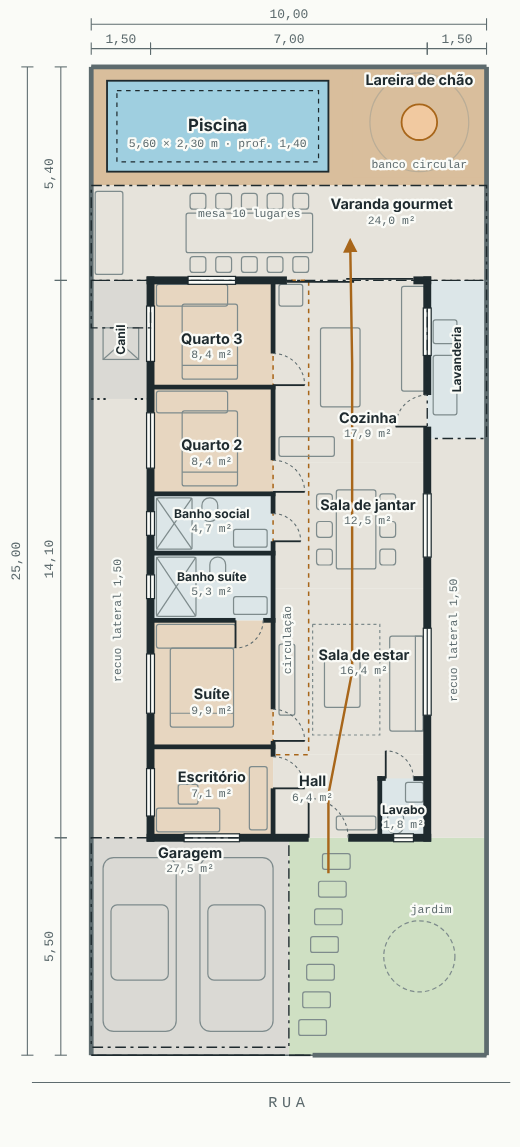
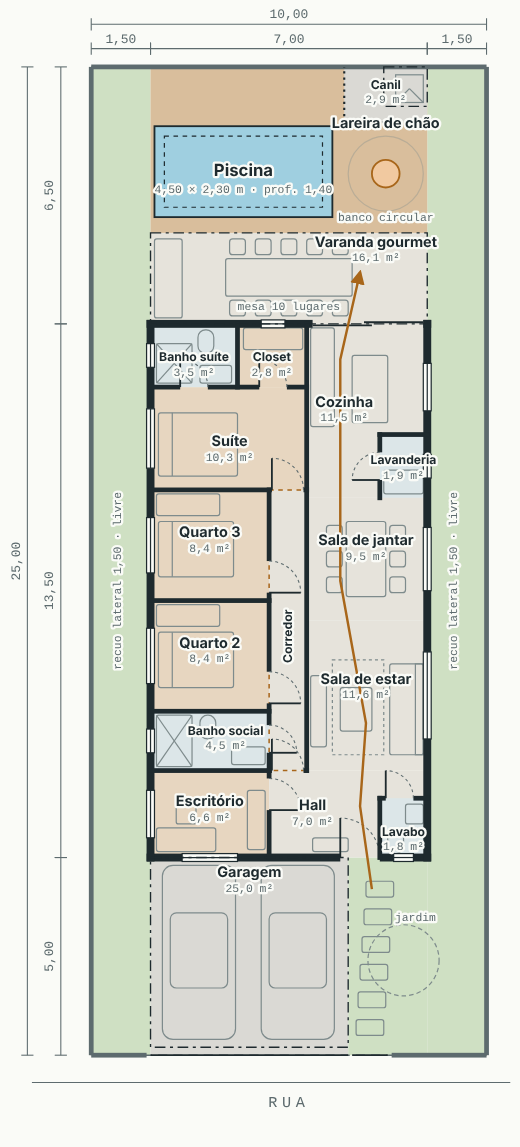
Revise floor plan (rev. 3): free side setbacks and private corridor
Nothing built in the 1.5 m side setbacks; laundry moved into a nook
off the kitchen; kennel moved to the back yard; bedrooms reached
through a closed corridor from the hall, suite with closet at the end.

Claude-Session: https://claude.ai/code/session_019puXozMW5akGZbKEsJEbHC

diff --git a/projeto-3d/planta-revisada.html b/projeto-3d/planta-revisada.html
@@ -76,7 +76,7 @@ ol.changes b{font-weight:600}
 
 <div class="wrap">
   <header>
-    <div class="eyebrow">Revisão 2 · para aprovação · terreno 10 × 25 m</div>
+    <div class="eyebrow">Revisão 3 · para aprovação · terreno 10 × 25 m</div>
     <h1>Casa Térrea com Piscina — Planta Revisada</h1>
     <div class="meta" id="meta"></div>
   </header>
@@ -84,27 +84,28 @@ ol.changes b{font-weight:600}
   <div class="grid">
     <section class="sheet">
       <div class="planbox"><svg id="plan" role="img" aria-label="Planta baixa revisada da casa"></svg></div>
-      <div class="legend"><span><i></i> percurso social: entrada → hall → sala → jantar → cozinha → área gourmet</span><span><i class="d"></i> circulação íntima aberta</span></div>
-      <div class="sheet-foot"><span>PLANTA BAIXA · TÉRREO · REV. 2</span><span>Medidas em metros</span></div>
+      <div class="legend"><span><i></i> percurso social: entrada → hall → sala → jantar → cozinha → área gourmet</span><span><i class="d"></i> corredor íntimo com porta</span></div>
+      <div class="sheet-foot"><span>PLANTA BAIXA · TÉRREO · REV. 3</span><span>Medidas em metros</span></div>
     </section>
     <aside>
       <div>
         <h2>O que mudou</h2>
         <ol class="changes">
-          <li><b>Recuo de 1,5 m dos dois lados.</b> A casa não encosta mais em nenhum muro e tem 7 m de largura. Os quartos ganham janelas para o corredor esquerdo.</li>
-          <li><b>Lado íntimo à esquerda.</b> Escritório, suíte com banheiro, banheiro social e os quartos 2 e 3 ficam todos em fila no mesmo lado.</li>
-          <li><b>Lado social à direita, em sequência.</b> Entrada → hall com lavabo → sala → jantar → cozinha.</li>
-          <li><b>Cozinha integrada à área gourmet.</b> Uma porta de vidro de 3,2 m abre a cozinha para a varanda coberta.</li>
-          <li><b>Varanda gourmet coberta</b> com mesa grande para 10 pessoas e churrasqueira.</li>
-          <li><b>Lareira de chão</b> ao lado da piscina, com banco circular em volta.</li>
-          <li><b>Lavanderia</b> coberta no corredor direito, com porta para a cozinha. O <b>canil</b> foi para o fim do corredor esquerdo.</li>
+          <li><b>Recuos laterais de 1,5 m totalmente livres.</b> Nada construído neles, só jardim e passagem.</li>
+          <li><b>Quartos em corredor fechado.</b> Uma porta no hall dá acesso ao corredor íntimo. Banheiro social, quartos 2 e 3 abrem para ele, e a suíte fica no fim, mais reservada.</li>
+          <li><b>Suíte com closet</b> e banheiro, nos fundos do lado íntimo.</li>
+          <li><b>Escritório na frente,</b> com porta direto para o hall, para receber visitas sem passar pela área íntima.</li>
+          <li><b>Lado social em sequência:</b> entrada → hall com lavabo → sala → jantar → cozinha.</li>
+          <li><b>Lavanderia dentro da cozinha,</b> em um nicho com porta e janela para o recuo.</li>
+          <li><b>Cozinha aberta para a varanda gourmet</b> por uma porta de vidro de 2,8 m. Na varanda: mesa para 10 e churrasqueira.</li>
+          <li><b>Piscina, lareira de chão com banco em volta e canil</b> no quintal dos fundos, fora dos recuos.</li>
         </ol>
       </div>
       <div>
         <h2>Quadro de áreas</h2>
         <table id="areas"></table>
       </div>
-      <p class="note">Para caber o recuo dos dois lados, a piscina diminuiu um pouco (de 6,00 × 2,35 m para 5,60 × 2,30 m) e os quartos 2 e 3 ficaram com cerca de 8,4 m² cada. As portas dos quartos abrem para uma faixa de circulação de 0,9 m integrada à sala, sem parede. Confirme recuos, taxa de ocupação e área permeável com a prefeitura e com um arquiteto.</p>
+      <p class="note">Com os recuos livres e o corredor fechado, a largura útil ficou mais justa. A área social tem 3,05 m de largura (sala de 11,6 m², integrada ao jantar e à cozinha). Os quartos 2 e 3 têm 8,4 m², o escritório 6,6 m², e a piscina diminuiu para 4,50 × 2,30 m. Se a prefeitura permitir piscina no recuo, ela pode voltar a ter 6 m. Confirme recuos, taxa de ocupação e área permeável com a prefeitura e com um arquiteto.</p>
     </aside>
   </div>
 </div>
@@ -114,77 +115,84 @@ ol.changes b{font-weight:600}
 const HOUSE = {
   lot:{w:10,d:25},
   rooms:[
-    {id:'gar',   n:'Garagem', x:0,y:0,w:5.0,d:5.5,f:'concrete',ext:true,g:'ext',lx:2.5,ly:5.0},
-    {id:'esc',   n:'Escritório', x:1.5,y:5.5,w:3.1,d:2.3,f:'wood',g:'int',lx:3.05,ly:6.9,isNew:true},
-    {id:'suite', n:'Suíte', x:1.5,y:7.8,w:3.1,d:3.2,f:'wood',g:'int',lx:3.05,ly:9.0},
-    {id:'bsuite',n:'Banho suíte', x:1.5,y:11.0,w:3.1,d:1.7,f:'tile',g:'int',small:true,lx:3.05,ly:12.0},
-    {id:'bsoc',  n:'Banho social', x:1.5,y:12.7,w:3.1,d:1.5,f:'tile',g:'int',small:true,lx:3.05,ly:13.6},
-    {id:'q2',    n:'Quarto 2', x:1.5,y:14.2,w:3.1,d:2.7,f:'wood',g:'int',lx:3.05,ly:15.3},
-    {id:'q3',    n:'Quarto 3', x:1.5,y:16.9,w:3.1,d:2.7,f:'wood',g:'int',lx:3.05,ly:18.0},
-    {id:'hall',  n:'Hall', x:4.6,y:5.5,w:3.9,d:2.1,f:'stone',g:'soc',lx:5.6,ly:6.8,cut:{w:1.2,d:1.5},isNew:true},
-    {id:'lavabo',n:'Lavabo', x:7.3,y:5.5,w:1.2,d:1.5,f:'tile',g:'soc',small:true,lx:7.9,ly:6.1,isNew:true},
-    {id:'sala',  n:'Sala de estar', x:4.6,y:7.6,w:3.9,d:4.2,f:'stone',g:'soc',lx:6.9,ly:10.0},
-    {id:'jantar',n:'Sala de jantar', x:4.6,y:11.8,w:3.9,d:3.2,f:'stone',g:'soc',lx:7.0,ly:13.8},
-    {id:'coz',   n:'Cozinha', x:4.6,y:15.0,w:3.9,d:4.6,f:'stone',g:'soc',lx:7.0,ly:16.0},
-    {id:'gour',  n:'Varanda gourmet', x:0,y:19.6,w:10,d:2.4,f:'stone',ext:true,g:'ext',lx:7.6,ly:21.4,isNew:true},
-    {id:'lav',   n:'Lavanderia', x:8.5,y:15.6,w:1.5,d:4.0,f:'tile',ext:true,g:'ext',small:true,vert:true,lx:9.25,ly:17.6},
-    {id:'canil', n:'Canil', x:0,y:16.6,w:1.5,d:3.0,f:'concrete',ext:true,g:'ext',small:true,vert:true,lx:.75,ly:18.1},
-    {id:'fogo',  n:'Lareira de chão', x:6.6,y:22.2,w:3.4,d:2.8,f:'deck',ext:true,g:'ext',lx:8.3,ly:24.55,isNew:true,area:false},
+    {id:'gar',   n:'Garagem', x:1.5,y:0,w:5.0,d:5.0,f:'concrete',ext:true,g:'ext',lx:4.0,ly:4.5},
+    {id:'esc',   n:'Escritório', x:1.5,y:5.0,w:3.0,d:2.2,f:'wood',g:'int',lx:3.0,ly:6.3,isNew:true},
+    {id:'bsoc',  n:'Banho social', x:1.5,y:7.2,w:3.0,d:1.5,f:'tile',g:'int',small:true,lx:3.4,ly:8.1},
+    {id:'q2',    n:'Quarto 2', x:1.5,y:8.7,w:3.0,d:2.8,f:'wood',g:'int',lx:3.0,ly:10.3},
+    {id:'q3',    n:'Quarto 3', x:1.5,y:11.5,w:3.0,d:2.8,f:'wood',g:'int',lx:3.0,ly:13.1},
+    {id:'corr',  n:'Corredor', x:4.5,y:7.2,w:.95,d:7.1,f:'stone',g:'int',vert:true,lx:4.97,ly:10.6,isNew:true},
+    {id:'suite', n:'Suíte', x:1.5,y:14.3,w:3.95,d:2.6,f:'wood',g:'int',lx:3.5,ly:15.4},
+    {id:'bsuite',n:'Banho suíte', x:1.5,y:16.9,w:2.2,d:1.6,f:'tile',g:'int',small:true,lx:2.6,ly:17.55},
+    {id:'closet',n:'Closet', x:3.7,y:16.9,w:1.75,d:1.6,f:'wood',g:'int',small:true,lx:4.57,ly:17.55,isNew:true},
+    {id:'hall',  n:'Hall', x:4.5,y:5.0,w:4.0,d:2.2,f:'stone',g:'soc',lx:5.6,ly:6.2,cut:{w:1.2,d:1.5},isNew:true},
+    {id:'lavabo',n:'Lavabo', x:7.3,y:5.0,w:1.2,d:1.5,f:'tile',g:'soc',small:true,lx:7.9,ly:5.55,isNew:true},
+    {id:'sala',  n:'Sala de estar', x:5.45,y:7.2,w:3.05,d:3.8,f:'stone',g:'soc',lx:6.95,ly:9.4},
+    {id:'jantar',n:'Sala de jantar', x:5.45,y:11.0,w:3.05,d:3.1,f:'stone',g:'soc',lx:6.95,ly:12.9},
+    {id:'coz',   n:'Cozinha', x:5.45,y:14.1,w:3.05,d:4.4,f:'stone',g:'soc',lx:6.4,ly:16.4,cut:{w:1.2,d:1.6}},
+    {id:'lav',   n:'Lavanderia', x:7.3,y:14.1,w:1.2,d:1.6,f:'tile',g:'soc',small:true,lx:7.9,ly:14.95,isNew:true},
+    {id:'gour',  n:'Varanda gourmet', x:1.5,y:18.5,w:7.0,d:2.3,f:'stone',ext:true,g:'ext',lx:7.2,ly:20.45,isNew:true},
+    {id:'fogo',  n:'Lareira de chão', x:6.4,y:21.2,w:2.1,d:2.3,f:'deck',ext:true,g:'ext',lx:7.45,ly:23.45,isNew:true,area:false,nofill:true},
+    {id:'canil', n:'Canil', x:6.4,y:23.6,w:2.1,d:1.4,f:'concrete',ext:true,g:'ext',small:true,lx:7.45,ly:24.45},
   ],
   outdoor:[
-    {x:5.0,y:0,w:5.0,d:5.5,f:'grass'},
-    {x:0,y:5.5,w:1.5,d:11.1,f:'stone'},
-    {x:8.5,y:5.5,w:1.5,d:10.1,f:'stone'},
-    {x:0,y:22.0,w:10,d:3.0,f:'deck'},
+    {x:0,y:0,w:1.5,d:25,f:'grass'},
+    {x:8.5,y:0,w:1.5,d:25,f:'grass'},
+    {x:6.5,y:0,w:2.0,d:5.0,f:'grass'},
+    {x:1.5,y:20.8,w:7.0,d:4.2,f:'deck'},
   ],
-  pool:{x:.4,y:22.35,w:5.6,d:2.3},
-  fire:{cx:8.3,cy:23.6,r:.45,bench:1.25},
+  pool:{x:1.6,y:21.2,w:4.5,d:2.3},
+  fire:{cx:7.45,cy:22.3,r:.35,bench:.95},
   walls:[
-    {a:[1.5,5.5],b:[8.5,5.5],t:.2,o:[{c:3.05,w:1.4,k:'win'},{c:6.0,w:1.0,k:'door',s:1,main:true},{c:7.9,w:.5,k:'win'}]},
-    {a:[1.5,5.5],b:[1.5,19.6],t:.2,o:[{c:6.65,w:1.2,k:'win'},{c:9.4,w:1.5,k:'win'},{c:11.85,w:.6,k:'win'},{c:13.45,w:.6,k:'win'},{c:15.55,w:1.4,k:'win'},{c:18.25,w:1.4,k:'win'}]},
-    {a:[8.5,5.5],b:[8.5,19.6],t:.2,o:[{c:9.7,w:2.2,k:'win'},{c:13.4,w:1.6,k:'win'},{c:16.3,w:.8,k:'door',s:-1},{c:18.3,w:1.2,k:'win'}]},
-    {a:[1.5,19.6],b:[8.5,19.6],t:.2,o:[{c:3.05,w:1.2,k:'win'},{c:6.55,w:3.2,k:'slide'}]},
-    {a:[4.6,5.5],b:[4.6,19.6],t:.12,o:[{c:7.15,w:.8,k:'door',s:1},{c:8.35,w:.8,k:'door',s:1},{c:13.35,w:.7,k:'door',s:1},{c:14.65,w:.8,k:'door',s:1},{c:17.35,w:.8,k:'door',s:1}]},
-    {a:[1.5,7.8],b:[4.6,7.8],t:.12,o:[]},
-    {a:[1.5,11.0],b:[4.6,11.0],t:.12,o:[{c:4.0,w:.7,k:'door',s:-1}]},
-    {a:[1.5,12.7],b:[4.6,12.7],t:.12,o:[]},
-    {a:[1.5,14.2],b:[4.6,14.2],t:.12,o:[]},
-    {a:[1.5,16.9],b:[4.6,16.9],t:.12,o:[]},
-    {a:[7.3,5.5],b:[7.3,7.0],t:.12,o:[]},
-    {a:[7.3,7.0],b:[8.5,7.0],t:.12,o:[{c:7.8,w:.7,k:'door',s:1}]},
+    {a:[1.5,5.0],b:[8.5,5.0],t:.2,o:[{c:3.0,w:1.4,k:'win'},{c:6.8,w:1.0,k:'door',s:1,main:true},{c:7.9,w:.5,k:'win'}]},
+    {a:[1.5,5.0],b:[1.5,18.5],t:.2,o:[{c:6.1,w:1.2,k:'win'},{c:7.95,w:.6,k:'win'},{c:10.1,w:1.4,k:'win'},{c:12.9,w:1.4,k:'win'},{c:15.6,w:1.5,k:'win'},{c:17.7,w:.6,k:'win'}]},
+    {a:[8.5,5.0],b:[8.5,18.5],t:.2,o:[{c:9.1,w:2.2,k:'win'},{c:12.55,w:1.6,k:'win'},{c:14.9,w:.6,k:'win'},{c:16.9,w:1.2,k:'win'}]},
+    {a:[1.5,18.5],b:[8.5,18.5],t:.2,o:[{c:4.6,w:.6,k:'win'},{c:7.0,w:2.8,k:'slide'}]},
+    {a:[4.5,5.0],b:[4.5,14.3],t:.12,o:[{c:6.6,w:.8,k:'door',s:1},{c:8.0,w:.7,k:'door',s:1},{c:9.3,w:.8,k:'door',s:1},{c:12.1,w:.8,k:'door',s:1}]},
+    {a:[5.45,7.2],b:[5.45,18.5],t:.12,o:[]},
+    {a:[4.5,7.2],b:[5.45,7.2],t:.12,o:[{c:4.97,w:.8,k:'door',s:1}]},
+    {a:[1.5,7.2],b:[4.5,7.2],t:.12,o:[]},
+    {a:[1.5,8.7],b:[4.5,8.7],t:.12,o:[]},
+    {a:[1.5,11.5],b:[4.5,11.5],t:.12,o:[]},
+    {a:[1.5,14.3],b:[5.45,14.3],t:.12,o:[{c:4.97,w:.8,k:'door',s:1}]},
+    {a:[1.5,16.9],b:[5.45,16.9],t:.12,o:[{c:2.6,w:.7,k:'door',s:1},{c:4.6,w:.7,k:'door',s:1}]},
+    {a:[3.7,16.9],b:[3.7,18.5],t:.12,o:[]},
+    {a:[7.3,5.0],b:[7.3,6.5],t:.12,o:[]},
+    {a:[7.3,6.5],b:[8.5,6.5],t:.12,o:[{c:7.8,w:.7,k:'door',s:1}]},
+    {a:[7.3,14.1],b:[7.3,15.7],t:.12,o:[{c:14.9,w:.7,k:'door',s:-1}]},
+    {a:[7.3,15.7],b:[8.5,15.7],t:.12,o:[]},
   ],
-  fences:[{a:[0,0],b:[0,25]},{a:[10,0],b:[10,25]},{a:[0,25],b:[10,25]},{a:[5.6,0],b:[10,0]}],
-  gates:[{a:[0,0],b:[4.9,0]},{a:[5.0,0],b:[5.55,0]}],
-  pens:[{a:[0,16.6],b:[1.5,16.6],o:[{c:.75,w:.7}]}],
+  fences:[{a:[0,0],b:[0,25]},{a:[10,0],b:[10,25]},{a:[0,25],b:[10,25]},{a:[0,0],b:[1.4,0]},{a:[7.6,0],b:[10,0]}],
+  gates:[{a:[1.5,0],b:[6.5,0]},{a:[6.6,0],b:[7.5,0]}],
+  pens:[{a:[6.4,23.6],b:[8.5,23.6],o:[{c:7.0,w:.7}]},{a:[6.4,23.6],b:[6.4,25],o:[]}],
   covers:[
-    {x:0,y:.2,w:5.0,d:5.3},
-    {x:0,y:19.6,w:10,d:2.4},
-    {x:8.5,y:15.6,w:1.5,d:4.0},
-    {x:0,y:18.4,w:1.5,d:1.2},
+    {x:1.5,y:.2,w:5.0,d:4.8},
+    {x:1.5,y:18.5,w:7.0,d:2.3},
+    {x:7.4,y:24.0,w:1.1,d:1.0},
   ],
   furn:[
-    {k:'car',x:.3,y:.6,w:1.85,d:4.4},{k:'car',x:2.75,y:.6,w:1.85,d:4.4},
-    {x:1.65,y:5.65,w:1.6,d:.6},{x:2.2,y:6.35,w:.5,d:.5},{x:4.0,y:5.7,w:.45,d:1.6},
-    {k:'bed',x:2.0,y:8.3,w:1.6,d:2.0,head:'min'},{x:1.65,y:10.3,w:2.0,d:.6},
-    {k:'shower',x:1.65,y:11.1,w:1.0,d:1.5},{k:'wc',x:3.0,y:12.0,w:.4,d:.6,back:'y1'},{x:3.6,y:11.15,w:.85,d:.45},
-    {k:'shower',x:1.65,y:12.8,w:.9,d:1.3},{k:'wc',x:2.8,y:13.5,w:.4,d:.6,back:'y1'},{x:3.6,y:12.85,w:.85,d:.45},
-    {k:'bed',x:2.3,y:14.4,w:1.4,d:1.9,head:'min'},{x:1.65,y:16.25,w:1.8,d:.55},
-    {k:'bed',x:2.3,y:17.1,w:1.4,d:1.9,head:'min'},{x:1.65,y:18.95,w:1.8,d:.55},
-    {k:'wc',x:7.5,y:5.6,w:.4,d:.6,back:'y0'},{x:7.95,y:6.4,w:.45,d:.5},
-    {x:6.2,y:5.7,w:1.0,d:.35},
-    {k:'sofa',x:7.55,y:8.2,w:.85,d:2.4,back:'x1'},{x:5.9,y:8.8,w:.9,d:1.2},{x:4.75,y:8.6,w:.4,d:1.8},{k:'rug',x:5.6,y:8.1,w:1.7,d:2.8},
-    {k:'table',x:6.2,y:12.3,w:1.0,d:2.0},
-    {x:7.85,y:16.8,w:.6,d:2.65},{x:4.75,y:15.15,w:1.4,d:.5},{x:5.8,y:16.4,w:1.0,d:2.0},{x:4.75,y:18.95,w:.6,d:.55},
-    {k:'table',x:2.4,y:20.3,w:3.2,d:1.0},{x:.1,y:19.75,w:.7,d:2.1},
-    {x:8.65,y:16.2,w:.6,d:1.5},{x:8.65,y:18.0,w:.6,d:.6},
-    {k:'dog',x:.3,y:17.6,w:.9,d:.8},
-    {k:'tree',x:7.4,y:1.6,w:1.8,d:1.8},
+    {k:'car',x:1.8,y:.4,w:1.85,d:4.4},{k:'car',x:4.3,y:.4,w:1.85,d:4.4},
+    {x:1.65,y:5.15,w:1.5,d:.6},{x:2.15,y:5.85,w:.5,d:.5},{x:3.95,y:5.2,w:.45,d:1.5},
+    {k:'shower',x:1.65,y:7.3,w:.9,d:1.3},{k:'wc',x:2.75,y:8.0,w:.4,d:.6,back:'y1'},{x:3.55,y:7.35,w:.85,d:.45},
+    {k:'bed',x:1.7,y:9.3,w:1.9,d:1.4,head:'x'},{x:1.65,y:10.85,w:1.6,d:.55},
+    {k:'bed',x:1.7,y:12.1,w:1.9,d:1.4,head:'x'},{x:1.65,y:13.65,w:1.6,d:.55},
+    {k:'bed',x:1.7,y:14.65,w:2.0,d:1.6,head:'x'},
+    {k:'shower',x:1.65,y:17.0,w:.9,d:1.0},{k:'wc',x:2.7,y:17.75,w:.4,d:.6,back:'y1'},{x:2.75,y:17.0,w:.8,d:.45},
+    {x:3.85,y:17.85,w:1.5,d:.55},
+    {k:'wc',x:7.5,y:5.1,w:.4,d:.6,back:'y0'},{x:7.95,y:5.85,w:.45,d:.5},
+    {x:5.6,y:5.15,w:.9,d:.35},
+    {k:'sofa',x:7.55,y:7.6,w:.85,d:2.3,back:'x1'},{x:6.3,y:8.2,w:.8,d:1.1},{x:5.55,y:7.8,w:.4,d:1.8},{k:'rug',x:6.1,y:7.6,w:1.3,d:2.4},
+    {k:'table',x:6.45,y:11.6,w:1.0,d:1.9},
+    {x:5.55,y:15.9,w:.6,d:2.5},{x:6.6,y:16.0,w:.9,d:1.7},
+    {x:7.4,y:14.2,w:1.0,d:.6},
+    {k:'table',x:3.4,y:19.2,w:3.2,d:.95},{x:1.6,y:18.65,w:.7,d:2.0},
+    {k:'dog',x:7.7,y:24.1,w:.7,d:.7},
+    {k:'tree',x:7.0,y:1.5,w:1.8,d:1.8},
   ],
-  steps:[[5.25,.5],[5.35,1.2],[5.45,1.9],[5.55,2.6],[5.65,3.3],[5.75,4.0],[5.85,4.7]],
-  flow:[[6.0,4.6],[6.0,6.6],[6.6,9.7],[6.6,13.3],[6.6,17.5],[6.55,20.6]],
+  steps:[[6.7,.5],[6.75,1.2],[6.8,1.9],[6.85,2.6],[6.9,3.3],[6.95,4.0]],
+  flow:[[7.1,4.2],[6.8,6.3],[6.95,8.4],[6.3,12.0],[6.3,17.6],[6.8,19.8]],
   dims:{
     h:[[0,10,16,'10,00'],[0,1.5,32,'1,50'],[1.5,8.5,32,'7,00'],[8.5,10,32,'1,50']],
-    v:[[0,25,18,'25,00'],[0,5.5,40,'5,50'],[5.5,19.6,40,'14,10'],[19.6,25,40,'5,40']],
+    v:[[0,25,18,'25,00'],[0,5.0,40,'5,00'],[5.0,18.5,40,'13,50'],[18.5,25,40,'6,50']],
   },
 };
 
@@ -192,13 +200,13 @@ const fmt = n => n.toLocaleString('pt-BR',{minimumFractionDigits:1,maximumFracti
 const A = r => r.w*r.d - (r.cut ? r.cut.w*r.cut.d : 0);
 const lotA = HOUSE.lot.w*HOUSE.lot.d;
 const inner = HOUSE.rooms.filter(r=>!r.ext);
-const houseA = 7.0*14.1;
-const gourA = 10*2.4, garA = 5.0*5.3;
+const houseA = 7.0*13.5;
+const gourA = 7.0*2.3, garA = 5.0*4.8;
 const P = HOUSE.pool;
 const permA = HOUSE.outdoor.filter(o=>o.f==='grass').reduce((s,o)=>s+o.w*o.d,0);
 
 document.getElementById('meta').innerHTML =
-  `<span>Terreno <b>10 × 25 m</b> (${lotA} m²)</span><span>Casa <b>7,00 × 14,10 m ≈ ${fmt(houseA)} m²</b></span><span>Recuos laterais <b>1,50 m</b></span><span><b>3 quartos</b> (1 suíte) · escritório · lavabo</span><span>Gourmet integrada · <b>piscina 5,60 × 2,30 m</b> · <b>lareira de chão</b></span>`;
+  `<span>Terreno <b>10 × 25 m</b> (${lotA} m²)</span><span>Casa <b>7,00 × 13,50 m ≈ ${fmt(houseA)} m²</b></span><span>Recuos laterais <b>1,50 m livres</b></span><span><b>3 quartos</b> (suíte com closet) em corredor fechado · escritório · lavabo</span><span>Gourmet integrada · <b>piscina 4,50 × 2,30 m</b> · <b>lareira de chão</b> · canil</span>`;
 
 const row = r => `<tr class="room${r.isNew?' new':''}" data-room="${r.id}"><td>${r.n}</td><td class="n">${r.area===false?'—':fmt(A(r))+' m²'}</td></tr>`;
 document.getElementById('areas').innerHTML =
@@ -206,7 +214,7 @@ document.getElementById('areas').innerHTML =
   '<tr class="sub"><td colspan="2">Social (lado direito)</td></tr>' + HOUSE.rooms.filter(r=>r.g==='soc').map(row).join('') +
   '<tr class="sub"><td colspan="2">Externo</td></tr>' + HOUSE.rooms.filter(r=>r.g==='ext').map(row).join('') +
   `<tr class="room" data-room="pool"><td>Piscina</td><td class="n">${fmt(P.w*P.d)} m²</td></tr></tbody>` +
-  `<tfoot><tr><td>Casa (área construída)</td><td class="n">${fmt(houseA)} m²</td></tr><tr><td>Taxa de ocupação (casa + coberturas)</td><td class="n">${fmt((houseA+gourA+garA+6)/lotA*100)} %</td></tr></tfoot>`;
+  `<tfoot><tr><td>Casa (área construída)</td><td class="n">${fmt(houseA)} m²</td></tr><tr><td>Taxa de ocupação (casa + coberturas)</td><td class="n">${fmt((houseA+gourA+garA+1.1)/lotA*100)} %</td></tr><tr><td>Recuos laterais livres</td><td class="n">2 × 1,50 m</td></tr></tfoot>`;
 
 (function drawPlan(){
   const L=HOUSE.lot, S=26, ML=60, MT=44, MR=22, MB=60;
@@ -216,7 +224,7 @@ document.getElementById('areas').innerHTML =
   const line=(x1,y1,x2,y2,cls)=>`<line x1="${X(x1)}" y1="${Y(y1)}" x2="${X(x2)}" y2="${Y(y2)}" class="${cls}"/>`;
   let o='<defs><marker id="arrow" viewBox="0 0 10 10" refX="8" refY="5" markerWidth="6" markerHeight="6" orient="auto-start-reverse"><path d="M0 0L10 5L0 10z" class="arrowhead"/></marker></defs>';
   HOUSE.outdoor.forEach(z=>o+=R(z,'f-'+z.f));
-  HOUSE.rooms.forEach(r=>o+=R(r,'f-'+r.f));
+  HOUSE.rooms.forEach(r=>{ if(!r.nofill) o+=R(r,'f-'+r.f); });
   HOUSE.rooms.forEach(r=>o+=R(r,'rm',`data-room="${r.id}" fill="transparent"`));
   o+=R(P,'f-water rm',`data-room="pool"`);
   o+=R({x:P.x+.25,y:P.y+.25,w:P.w-.5,d:P.d-.5},'thin','stroke-dasharray="3 3"');
@@ -225,7 +233,7 @@ document.getElementById('areas').innerHTML =
   o+=`<circle cx="${X(F.cx)}" cy="${Y(F.cy)}" r="${F.r*S}" class="f-fire"/>`;
   o+=R({x:L.w*0,y:0,w:L.w,d:L.d},'lot');
   HOUSE.steps.forEach(([x,y])=>o+=R({x,y,w:.7,d:.4},'fur','rx="1.5"'));
-  o+=R({x:4.6,y:7.6,w:.9,d:12.0},'circ');
+  o+=R({x:4.5,y:7.2,w:.95,d:7.1},'circ');
 
   HOUSE.furn.forEach(f=>{
     if(f.k==='tree'){o+=`<circle cx="${X(f.x+f.w/2)}" cy="${Y(f.y+f.d/2)}" r="${f.w/2*S}" class="fur" stroke-dasharray="3 2"/>`;return;}
@@ -233,7 +241,7 @@ document.getElementById('areas').innerHTML =
     if(f.k==='dog'){o+=R(f,'fur');o+=line(f.x,f.y,f.x+f.w/2,f.y+f.d/2,'fur');o+=line(f.x+f.w/2,f.y+f.d/2,f.x+f.w,f.y,'fur');return;}
     if(f.k==='rug'){o+=R(f,'fur','stroke-dasharray="2 2"');return;}
     o+=R(f,'fur', f.k==='car'?'rx="7"':'rx="1.5"');
-    if(f.k==='bed'){const hy=f.head==='max'?f.y+f.d-.35:f.y+.35; o+=line(f.x,hy,f.x+f.w,hy,'fur');}
+    if(f.k==='bed'){ if(f.head==='x'){o+=line(f.x+.35,f.y,f.x+.35,f.y+f.d,'fur');} else {const hy=f.head==='max'?f.y+f.d-.35:f.y+.35; o+=line(f.x,hy,f.x+f.w,hy,'fur');} }
     if(f.k==='car'){o+=R({x:f.x+.2,y:f.y+1.3,w:f.w-.4,d:1.9},'fur','rx="4"');}
     if(f.k==='shower'){o+=line(f.x,f.y,f.x+f.w,f.y+f.d,'fur');o+=line(f.x+f.w,f.y,f.x,f.y+f.d,'fur');}
     if(f.k==='table'){const n=Math.round((f.w>f.d?f.w:f.d)/.6); for(let i=0;i<n;i++){ if(f.w>f.d){const cx=f.x+.3+i*(f.w-.6)/Math.max(1,n-1); o+=R({x:cx-.2,y:f.y-.5,w:.4,d:.4},'fur','rx="2"'); o+=R({x:cx-.2,y:f.y+f.d+.1,w:.4,d:.4},'fur','rx="2"');} else {const cy=f.y+.3+i*(f.d-.6)/Math.max(1,n-1); o+=R({x:f.x-.5,y:cy-.2,w:.4,d:.4},'fur','rx="2"'); o+=R({x:f.x+f.w+.1,y:cy-.2,w:.4,d:.4},'fur','rx="2"');}}}
@@ -282,13 +290,12 @@ document.getElementById('areas').innerHTML =
     if(r.area!==false) o+=`<text x="${cx}" y="${cy+9.5}" class="area">${fmt(A(r))} m²</text>`;
   });
   o+=`<text x="${X(P.x+P.w/2)}" y="${Y(P.y+P.d/2)+3}" class="lbl" style="font-size:11px">Piscina</text>`;
-  o+=`<text x="${X(P.x+P.w/2)}" y="${Y(P.y+P.d/2)+14}" class="area">5,60 × 2,30 m · prof. 1,40</text>`;
-  o+=`<text x="${X(8.3)}" y="${Y(22.45)}" class="area">banco circular</text>`;
-  o+=`<text x="${X(4.0)}" y="${Y(21.2)}" class="area">mesa 10 lugares</text>`;
-  o+=`<text x="${X(.75)}" y="${Y(11)}" class="area" transform="rotate(-90 ${X(.75)} ${Y(11)})">recuo lateral 1,50</text>`;
-  o+=`<text x="${X(9.25)}" y="${Y(10.5)}" class="area" transform="rotate(-90 ${X(9.25)} ${Y(10.5)})">recuo lateral 1,50</text>`;
-  o+=`<text x="${X(5.05)}" y="${Y(10.5)}" class="area" transform="rotate(-90 ${X(5.05)} ${Y(10.5)})">circulação</text>`;
-  o+=`<text x="${X(8.6)}" y="${Y(3.6)}" class="area">jardim</text>`;
+  o+=`<text x="${X(P.x+P.w/2)}" y="${Y(P.y+P.d/2)+14}" class="area">4,50 × 2,30 m · prof. 1,40</text>`;
+  o+=`<text x="${X(7.45)}" y="${Y(21.1)}" class="area">banco circular</text>`;
+  o+=`<text x="${X(5.0)}" y="${Y(18.85)}" class="area">mesa 10 lugares</text>`;
+  o+=`<text x="${X(.75)}" y="${Y(12)}" class="area" transform="rotate(-90 ${X(.75)} ${Y(12)})">recuo lateral 1,50 · livre</text>`;
+  o+=`<text x="${X(9.25)}" y="${Y(12)}" class="area" transform="rotate(-90 ${X(9.25)} ${Y(12)})">recuo lateral 1,50 · livre</text>`;
+  o+=`<text x="${X(8.2)}" y="${Y(3.4)}" class="area">jardim</text>`;
 
   const dimH=(x1,x2,yy,txt)=>{o+=`<line x1="${X(x1)}" y1="${yy}" x2="${X(x2)}" y2="${yy}" class="dim"/>`;
     [x1,x2].forEach(x=>o+=`<line x1="${X(x)}" y1="${yy-4}" x2="${X(x)}" y2="${yy+4}" class="dim"/>`);
